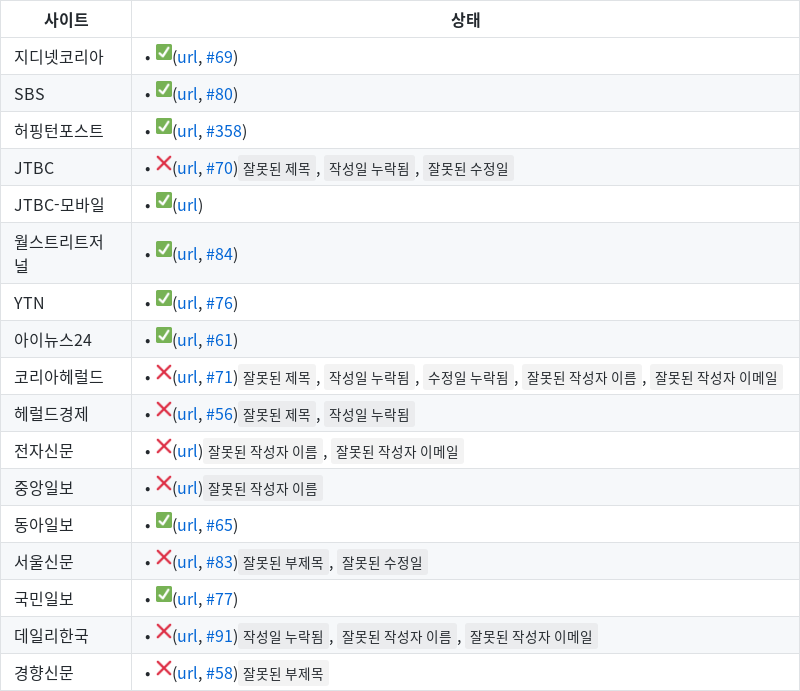
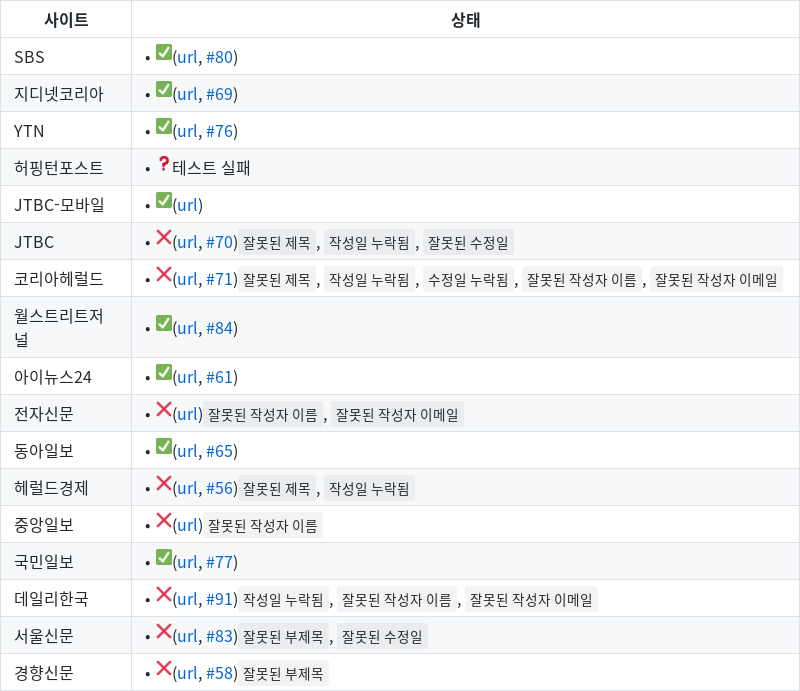
Wed Jul 15 00:32:27 UTC 2020

diff --git a/health-check.md b/health-check.md
@@ -1,19 +1,19 @@
 | 사이트 | 상태 |
 |------|-------|
-| 지디넷코리아 | • ✅([url](http://www.zdnet.co.kr/view/?no=20141104074223), [#69](https://github.com/disjukr/just-news/issues/#69)) |
 | SBS | • ✅([url](https://news.sbs.co.kr/news/endPage.do?news_id=N1002697236), [#80](https://github.com/disjukr/just-news/issues/#80)) |
-| 허핑턴포스트 | • ✅([url](https://www.huffingtonpost.kr/entry/story_kr_5d36a558e4b004b6adb5029c?9e4), [#358](https://github.com/disjukr/just-news/issues/#358)) |
-| JTBC | • ❌([url](http://news.jtbc.joins.com/article/article.aspx?news_id=NB10639468), [#70](https://github.com/disjukr/just-news/issues/#70))`잘못된 제목`, `작성일 누락됨`, `잘못된 수정일` |
-| JTBC-모바일 | • ✅([url](http://mnews.jtbc.joins.com/News/Article.aspx?news_id=NB11866214)) |
-| 월스트리트저널 | • ✅([url](https://realtime.wsj.com/korea/2014/10/13/%EB%B0%95%EC%9B%90%EC%88%9C-%EC%84%9C%EC%9A%B8%EC%8B%9C%EC%9E%A5-%EB%AF%B8%EA%B5%AD-%EC%96%B8%EB%A1%A0%EC%97%90-%EB%8F%99%EC%84%B1%EA%B2%B0%ED%98%BC-%EC%A7%80%EC%A7%80-%EB%B0%9C%EC%96%B8/), [#84](https://github.com/disjukr/just-news/issues/#84)) |
+| 지디넷코리아 | • ✅([url](http://www.zdnet.co.kr/view/?no=20141104074223), [#69](https://github.com/disjukr/just-news/issues/#69)) |
 | YTN | • ✅([url](https://www.ytn.co.kr/_ln/0103_201411190800481989), [#76](https://github.com/disjukr/just-news/issues/#76)) |
-| 아이뉴스24 | • ✅([url](http://www.inews24.com/view/860573), [#61](https://github.com/disjukr/just-news/issues/#61)) |
+| 허핑턴포스트 | • ❓테스트 실패 |
+| JTBC-모바일 | • ✅([url](http://mnews.jtbc.joins.com/News/Article.aspx?news_id=NB11866214)) |
+| JTBC | • ❌([url](http://news.jtbc.joins.com/article/article.aspx?news_id=NB10639468), [#70](https://github.com/disjukr/just-news/issues/#70))`잘못된 제목`, `작성일 누락됨`, `잘못된 수정일` |
 | 코리아헤럴드 | • ❌([url](http://khnews.kheraldm.com/view.php?ud=20141111001137&md=20141111180830_BK&kr=1), [#71](https://github.com/disjukr/just-news/issues/#71))`잘못된 제목`, `작성일 누락됨`, `수정일 누락됨`, `잘못된 작성자 이름`, `잘못된 작성자 이메일` |
-| 헤럴드경제 | • ❌([url](http://news.heraldcorp.com/view.php?ud=20141023000202&md=20141023091209_BK), [#56](https://github.com/disjukr/just-news/issues/#56))`잘못된 제목`, `작성일 누락됨` |
+| 월스트리트저널 | • ✅([url](https://realtime.wsj.com/korea/2014/10/13/%EB%B0%95%EC%9B%90%EC%88%9C-%EC%84%9C%EC%9A%B8%EC%8B%9C%EC%9E%A5-%EB%AF%B8%EA%B5%AD-%EC%96%B8%EB%A1%A0%EC%97%90-%EB%8F%99%EC%84%B1%EA%B2%B0%ED%98%BC-%EC%A7%80%EC%A7%80-%EB%B0%9C%EC%96%B8/), [#84](https://github.com/disjukr/just-news/issues/#84)) |
+| 아이뉴스24 | • ✅([url](http://www.inews24.com/view/860573), [#61](https://github.com/disjukr/just-news/issues/#61)) |
 | 전자신문 | • ❌([url](http://www.etnews.com/20191031000370?mc=ns_003_00006))`잘못된 작성자 이름`, `잘못된 작성자 이메일` |
-| 중앙일보 | • ❌([url](https://news.joins.com/article/23621286))`잘못된 작성자 이름` |
 | 동아일보 | • ✅([url](http://news.donga.com/3/03/20141107/67723014/1), [#65](https://github.com/disjukr/just-news/issues/#65)) |
-| 서울신문 | • ❌([url](http://seoul.co.kr/news/newsView.php?id=20141204500025), [#83](https://github.com/disjukr/just-news/issues/#83))`잘못된 부제목`, `잘못된 수정일` |
+| 헤럴드경제 | • ❌([url](http://news.heraldcorp.com/view.php?ud=20141023000202&md=20141023091209_BK), [#56](https://github.com/disjukr/just-news/issues/#56))`잘못된 제목`, `작성일 누락됨` |
+| 중앙일보 | • ❌([url](https://news.joins.com/article/23621286))`잘못된 작성자 이름` |
 | 국민일보 | • ✅([url](http://news.kmib.co.kr/article/view.asp?arcid=0008864720&code=61121111), [#77](https://github.com/disjukr/just-news/issues/#77)) |
 | 데일리한국 | • ❌([url](http://daily.hankooki.com/lpage/politics/201412/dh20141219103740137430.htm), [#91](https://github.com/disjukr/just-news/issues/#91))`작성일 누락됨`, `잘못된 작성자 이름`, `잘못된 작성자 이메일` |
+| 서울신문 | • ❌([url](http://seoul.co.kr/news/newsView.php?id=20141204500025), [#83](https://github.com/disjukr/just-news/issues/#83))`잘못된 부제목`, `잘못된 수정일` |
 | 경향신문 | • ❌([url](http://biz.khan.co.kr/khan_art_view.html?artid=201410311921301&code=920100&med=khan), [#58](https://github.com/disjukr/just-news/issues/#58))`잘못된 부제목` |
